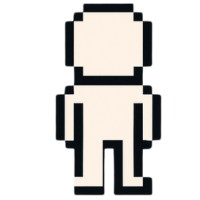
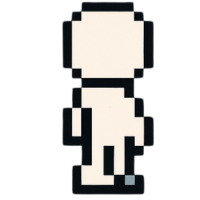
my-room: keep walking while a direction key is held, fix player sprites
Movement now tracks the direction keys that are held (most recent wins)
instead of queueing one step, so the player keeps walking until the key is
released. Removes a duplicated animation loop and frame flipper. The up and
right walk sprites were swapped and are put back the right way round.

Changed region(s): [[0.27, 0.0, 0.81, 0.99]]

diff --git a/src/app/my-room/GameRoot.tsx b/src/app/my-room/GameRoot.tsx
@@ -181,7 +181,8 @@ export default function GameRoot() {
     tileCenterPx(start.r, start.c)
   );
   const [frameIndex, setFrameIndex] = useState<0 | 1>(0); // 0 = *1.png*, 1 = *2.png*
-  const queuedDirRef = useRef<Dir | null>(null);
+  // direction keys currently held, most recent last
+  const heldDirsRef = useRef<Dir[]>([]);
   // pool a few audio elements to prevent play-lag overlaps
   const footPoolRef = useRef<HTMLAudioElement[]>([]);
   const footIdxRef = useRef(0);
@@ -267,12 +268,7 @@ export default function GameRoot() {
         setPos(to);
         setFrameIndex(0);
         setAnim(null);
-
-        // chain next step if queued
-        const q = queuedDirRef.current;
-        queuedDirRef.current = null;
-        if (q) startStep(q);
-        else raf = requestAnimationFrame(tick);
+        raf = requestAnimationFrame(tick);
       }
     };
 
@@ -281,6 +277,17 @@ export default function GameRoot() {
       if (raf) cancelAnimationFrame(raf);
     };
   }, [anim, pos.r, pos.c]);
+
+  const keyToDir = (key: string): Dir | null =>
+    key === "arrowup" || key === "w"
+      ? "up"
+      : key === "arrowdown" || key === "s"
+      ? "down"
+      : key === "arrowleft" || key === "a"
+      ? "left"
+      : key === "arrowright" || key === "d"
+      ? "right"
+      : null;
 
   const dirToDelta = (d: Dir) =>
     d === "up"
@@ -321,12 +328,16 @@ export default function GameRoot() {
     });
   }
 
+  // keep walking while a direction key is held
+  useEffect(() => {
+    if (anim) return;
+    const held = heldDirsRef.current;
+    if (held.length) startStep(held[held.length - 1]);
+  }, [anim]);
+
   function startStep(d: Dir) {
+    if (anim) return; // finish the current step first, then turn
     setDir(d);
-    if (anim) {
-      queuedDirRef.current = d;
-      return;
-    }
     const [dr, dc] = dirToDelta(d);
     const from = pos;
     const to = { r: pos.r + dr, c: pos.c + dc };
@@ -366,43 +377,6 @@ export default function GameRoot() {
     }
   }, [walkable, items]);
 
-  // flip frames while moving
-  useEffect(() => {
-    if (!anim) return;
-    const id = setInterval(() => setFrameIndex((f) => (f === 0 ? 1 : 0)), 100);
-    return () => clearInterval(id);
-  }, [anim]);
-
-  // RAF tick (keep your version; example shown)
-  useEffect(() => {
-    let raf: number | null = null;
-    const easeOutQuad = (t: number) => 1 - (1 - t) * (1 - t);
-
-    const tick = (t: number) => {
-      if (!anim) {
-        setRenderXY(tileCenterPx(pos.r, pos.c));
-        raf = requestAnimationFrame(tick);
-        return;
-      }
-      const { from, to, start, dur } = anim;
-      const p = Math.min(1, (t - start) / dur);
-      const k = easeOutQuad(p);
-      const A = tileCenterPx(from.r, from.c);
-      const B = tileCenterPx(to.r, to.c);
-      setRenderXY({ x: A.x + (B.x - A.x) * k, y: A.y + (B.y - A.y) * k });
-
-      if (p < 1) raf = requestAnimationFrame(tick);
-      else {
-        setPos(to);
-        setAnim(null);
-        raf = requestAnimationFrame(tick);
-      }
-    };
-    raf = requestAnimationFrame(tick);
-    return () => {
-      if (raf) cancelAnimationFrame(raf);
-    };
-  }, [anim, pos.r, pos.c]);
   // Movement (blocks walls AND items)
   const blockedByItem = (r: number, c: number) => !!itemOcc[r]?.[c];
   const blockedByWall = (r: number, c: number) => !!wallOcc[r]?.[c];
@@ -454,11 +428,17 @@ export default function GameRoot() {
     }
 
     let handled = true;
-    if (key === "arrowup" || key === "w") startStep("up");
-    else if (key === "arrowdown" || key === "s") startStep("down");
-    else if (key === "arrowleft" || key === "a") startStep("left");
-    else if (key === "arrowright" || key === "d") startStep("right");
-    else if (key === "r") {
+    const moveDir = keyToDir(key);
+    if (moveDir) {
+      // key repeat is ignored; the held list keeps the walk going
+      if (!e.repeat) {
+        heldDirsRef.current = [
+          ...heldDirsRef.current.filter((d) => d !== moveDir),
+          moveDir,
+        ];
+        startStep(moveDir);
+      }
+    } else if (key === "r") {
       setPos(start);
       if (keydownTimeoutRef.current !== null) {
         window.clearTimeout(keydownTimeoutRef.current);
@@ -482,6 +462,12 @@ export default function GameRoot() {
     if (handled) e.preventDefault();
   };
 
+  const onKeyUp: React.KeyboardEventHandler<HTMLDivElement> = (e) => {
+    const moveDir = keyToDir(e.key.toLowerCase());
+    if (moveDir)
+      heldDirsRef.current = heldDirsRef.current.filter((d) => d !== moveDir);
+  };
+
   return (
     <div className="min-h-dvh w-full bg-black flex items-center justify-center">
       <div
@@ -490,6 +476,8 @@ export default function GameRoot() {
         role="application"
         aria-label="Grid movement play area"
         onKeyDown={onKeyDown}
+        onKeyUp={onKeyUp}
+        onBlur={() => (heldDirsRef.current = [])}
         className="outline-none select-none relative"
       >
         {/* One wrapper that sets board size; overlays anchor to this */}
